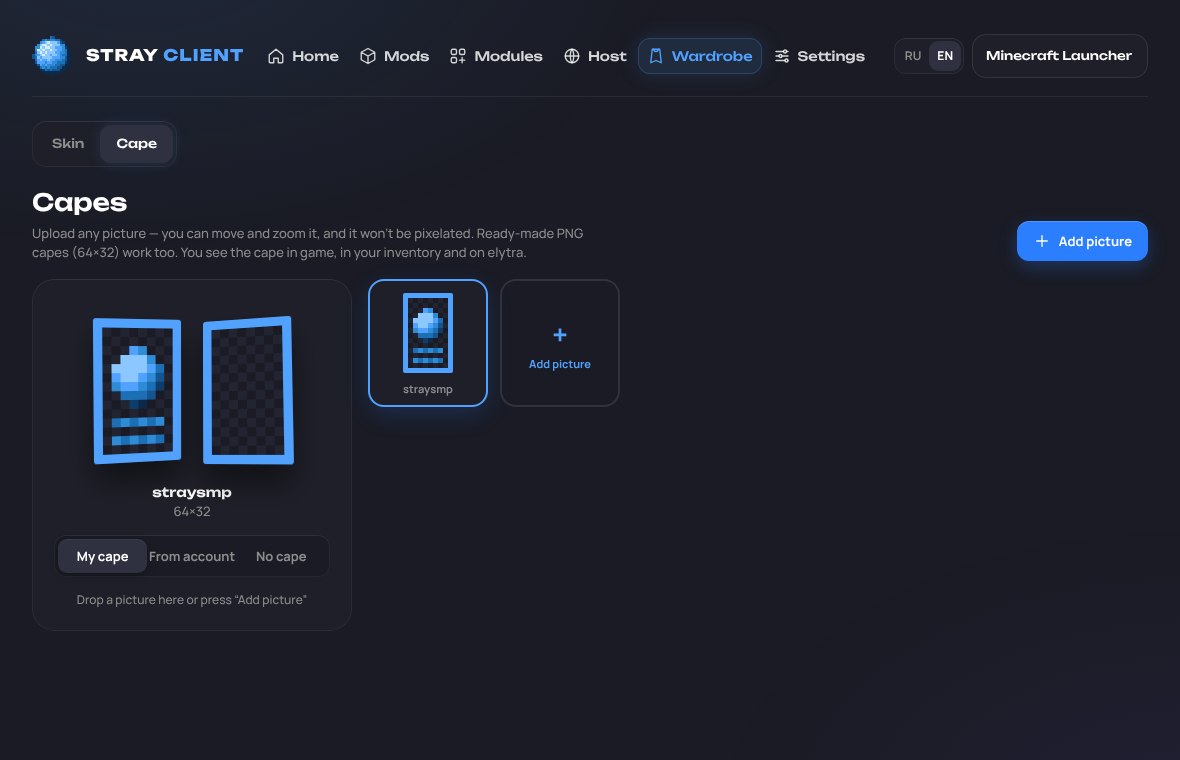
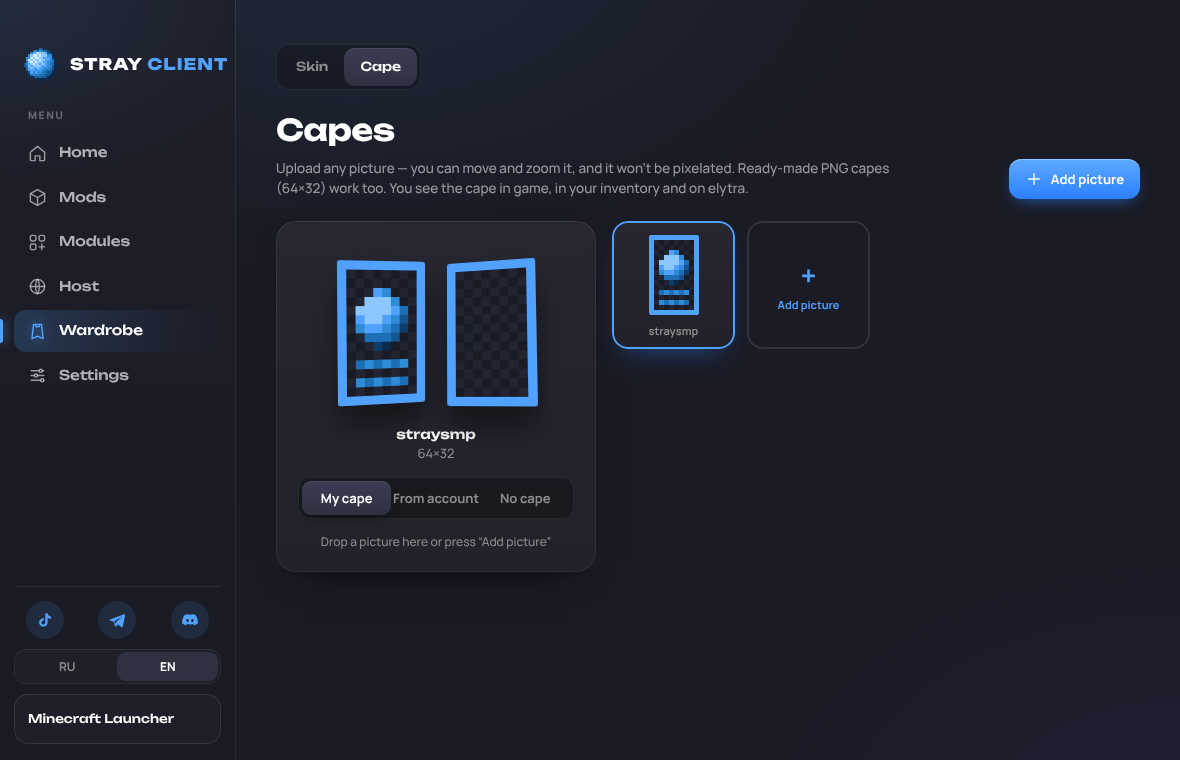
1.3.5: Design 2.0 — sidebar navigation and refined surfaces
- Navigation moves into a left sidebar (logo, labelled tabs with an
  accent bar on the active one, socials, language and account at the
  bottom); on narrow windows it becomes an icon rail.
- Larger, calmer page titles; layered card surfaces with soft edges and
  shadows; gradient primary buttons; refined tabs, segmented controls,
  inputs and notices; bigger Play button.
- Selected profiles, worlds and capes keep a clear accent ring.
- Website gallery re-shot.

Claude-Session: https://claude.ai/code/session_01EKR2RorTuDivRz6EMqGW66

diff --git a/ui/styles.css b/ui/styles.css
@@ -770,3 +770,132 @@ body.home-new .tiles { grid-template-columns: repeat(4, 1fr); }
 .ver-warn svg { width: 18px; height: 18px; flex: none; }
 .page > .ver-warn { margin: 0 0 14px; }
 .hero .ver-warn { background: rgba(40,30,10,.72); backdrop-filter: blur(10px); }
+
+/* ═════════════════════════════════════════════════════════════════════
+   Design 2.0 — sidebar navigation, larger type, layered surfaces
+   (a layer on top of the rules above; nothing below changes behaviour)
+   ═════════════════════════════════════════════════════════════════════ */
+:root {
+  --side: 236px;
+  --surface: linear-gradient(180deg, rgba(255,255,255,.035), rgba(255,255,255,.012));
+  --edge: rgba(255,255,255,.07);
+  --edge-hi: rgba(255,255,255,.12);
+  --glow: 0 0 0 1px rgba(81,162,255,.45), 0 10px 34px -10px rgba(43,127,255,.55);
+  --shadow: 0 1px 0 rgba(255,255,255,.04) inset, 0 18px 40px -24px rgba(0,0,0,.9);
+}
+
+/* ── sidebar ── */
+.top {
+  position: fixed; inset: 0 auto 0 0; width: var(--side); z-index: 30;
+  margin: 0; padding: 48px 14px 16px;
+  flex-direction: column; align-items: stretch; gap: 26px;
+  border-bottom: 0; border-right: 1px solid var(--edge);
+  background:
+    radial-gradient(420px 260px at 0% 0%, rgba(81,162,255,.10), transparent 70%),
+    linear-gradient(180deg, #1d1e28 0%, #191a23 100%);
+}
+.brand { padding: 0 10px; gap: 12px; }
+.brand img { width: 34px; height: 34px; }
+.brand span { font-size: 16px !important; }
+.nav { flex-direction: column; gap: 3px; }
+.nav-label { padding: 0 14px 6px; font-size: 10.5px; font-weight: 800; letter-spacing: .14em; text-transform: uppercase; color: rgba(255,255,255,.32); }
+.nav-btn, :is(html:lang(ru), html:lang(uk)) .nav-btn:not(.active) {
+  position: relative; padding: 11px 14px; gap: 12px; border-radius: 12px;
+  font-size: 13.5px; font-weight: 500; color: rgba(255,255,255,.66);
+}
+.nav-btn span, :is(html:lang(ru), html:lang(uk)) .nav-btn:not(.active) span { display: inline !important; }
+.nav-btn svg { width: 19px; height: 19px; opacity: .85; }
+.nav-btn:hover:not(.active) { background: rgba(255,255,255,.045); color: #fff; box-shadow: none; }
+.nav-btn.active {
+  color: #fff; box-shadow: none;
+  background: linear-gradient(90deg, rgba(81,162,255,.20), rgba(81,162,255,.05) 70%, transparent);
+}
+.nav-btn.active svg { color: var(--accent); opacity: 1; filter: drop-shadow(0 0 6px rgba(81,162,255,.6)); }
+.nav-btn.active::before {
+  content: ""; position: absolute; left: -14px; top: 9px; bottom: 9px; width: 3px; border-radius: 0 3px 3px 0;
+  background: var(--accent); box-shadow: 0 0 12px var(--accent);
+}
+.top-right {
+  margin: auto 0 0; display: grid; grid-template-columns: repeat(3, 1fr); gap: 10px; align-items: center;
+  padding-top: 14px; border-top: 1px solid var(--edge);
+}
+.top-right .social { display: grid !important; justify-self: center; width: 38px; height: 38px; }
+.lang { grid-column: 1 / -1; margin: 0; justify-content: stretch; }
+.lang button { flex: 1; }
+.account { grid-column: 1 / -1; width: 100%; height: 50px; padding: 6px 12px 6px 6px; border-radius: 14px; background: rgba(255,255,255,.04); box-shadow: inset 0 0 0 1px var(--edge); }
+.account img { width: 36px; height: 36px; border-radius: 10px; }
+.account span { flex: 1; min-width: 0; text-align: left; overflow: hidden; text-overflow: ellipsis; white-space: nowrap; }
+.account.guest { justify-content: center; }
+.acc-menu { top: auto; bottom: 62px; left: 0; right: auto; width: 290px; }
+
+/* ── content area ── */
+main { margin-left: var(--side); height: 100%; padding: 44px 40px 40px; }
+body::before { left: var(--side); }
+
+/* page heads: bigger, calmer */
+.page-head { margin-bottom: 22px; align-items: flex-end; }
+.page-head h2 { font-size: 30px; font-weight: 700; letter-spacing: -.02em; margin-bottom: 6px; }
+.page-head p { font-size: 13.5px; line-height: 1.55; max-width: 620px; color: rgba(255,255,255,.55); }
+
+/* layered surfaces */
+.card, .mod, .tile, .prof-cardx:not(.add), .world, .cape-card:not(.add), .online-card, .module-card, .set-card {
+  background: var(--surface), var(--panel);
+  box-shadow: inset 0 0 0 1px var(--edge), var(--shadow);
+}
+.card { border-radius: 20px; }
+.tile, .prof-cardx, .world, .mod { border-radius: 18px; }
+.set-card h3, .module-text h3, .card-head h3 { font-size: 17px; letter-spacing: -.005em; }
+
+/* inputs & segmented controls */
+.field input[type=text], .field input[type=password], .field input[type=number], .field select, .search, .skin-import input {
+  background: rgba(0,0,0,.22); box-shadow: inset 0 0 0 1px var(--edge);
+}
+.seg { background: rgba(0,0,0,.25); box-shadow: inset 0 0 0 1px var(--edge); }
+.seg button.on { background: linear-gradient(180deg, #3a3c52, #2f3142); box-shadow: 0 1px 0 rgba(255,255,255,.08) inset, 0 4px 12px -6px rgba(0,0,0,.8); }
+.tabs { background: rgba(0,0,0,.22); box-shadow: inset 0 0 0 1px var(--edge); }
+.tab.active { background: linear-gradient(180deg, #3a3c52, #2f3142); box-shadow: 0 1px 0 rgba(255,255,255,.08) inset; }
+
+/* primary buttons: gradient + inner light */
+.btn-primary { background: linear-gradient(180deg, #5eaaff, #2b7fff); box-shadow: 0 1px 0 rgba(255,255,255,.3) inset, 0 6px 18px -8px rgba(43,127,255,.9); }
+.btn-primary:hover:not(:disabled) { background: linear-gradient(180deg, #74b6ff, #3a88ff); }
+.btn { border-radius: 12px; }
+
+/* notices */
+.notice { border-radius: 14px; padding: 12px 16px; background: linear-gradient(90deg, rgba(81,162,255,.14), rgba(81,162,255,.05)); }
+
+/* ── home ── */
+.hero { border-radius: 26px; }
+.hero h1 { font-size: 40px !important; letter-spacing: -.025em; }
+body.home-new .hero p { font-size: 14.5px; color: rgba(255,255,255,.75); }
+.play { height: 60px; padding: 0 34px; border-radius: 18px; font-size: 17px; letter-spacing: .06em; }
+.home-bar h3 { font-size: 18px; letter-spacing: -.01em; }
+.tile-ico { width: 38px; height: 38px; border-radius: 12px; background: linear-gradient(180deg, rgba(81,162,255,.22), rgba(81,162,255,.08)); box-shadow: inset 0 0 0 1px rgba(81,162,255,.25); }
+.tile b { font-size: 15px; }
+.prof-cardx.on { background: linear-gradient(160deg, rgba(81,162,255,.20), rgba(81,162,255,.04) 55%), var(--panel); }
+
+/* ── responsive: icon rail on narrow windows ── */
+@media (max-width: 1080px) {
+  :root { --side: 78px; }
+  .top { padding: 46px 12px 14px; align-items: center; }
+  .brand { padding: 0; }
+  .brand span, .nav-btn span, .nav-label { display: none !important; }
+  .nav-btn, :is(html:lang(ru), html:lang(uk)) .nav-btn:not(.active) { justify-content: center; padding: 12px; width: 52px; }
+  .nav-btn.active::before { left: -12px; }
+  .top-right { grid-template-columns: 1fr; width: 100%; }
+  .top-right .social, .lang { display: none !important; }
+  .account { width: 52px; height: 52px; padding: 7px; justify-self: center; }
+  .account span, .account .acc-caret { display: none; }
+  .account.guest { padding: 0; }
+  .acc-menu { left: 0; bottom: 64px; }
+  main { padding: 40px 28px 28px; }
+}
+/* selected items keep their accent ring on the new surfaces */
+.prof-cardx.on, .world.on, .cape-card.on { box-shadow: inset 0 0 0 2px var(--accent), 0 12px 30px -14px rgba(43,127,255,.55) !important; }
+.prof-cardx.add { box-shadow: inset 0 0 0 1px rgba(81,162,255,.35); background: rgba(81,162,255,.04); }
+.prof-cardx.add:hover { background: rgba(81,162,255,.09); }
+.wr-tabs { margin-bottom: 18px; }
+@media (max-width: 1080px) {
+  /* no avatar (official-launcher mode): nothing useful to show in the rail */
+  .account:not(:has(img[src^="http"], img[src^="data"])) { display: none; }
+}
+.prof-tags span { white-space: nowrap; }

diff --git a/ui/i18n.js b/ui/i18n.js
@@ -21,6 +21,7 @@ window.I18N = {
     "host.starting": "Запускаю хост мира «{0}»…",
     "err.host_no_world": "Этот мир не найден. Обнови список.",
     "nav.modules": "Модули",
+    "nav.menu": "Меню",
     "nav.capes": "Плащи",
     "nav.wardrobe": "Гардероб",
     "pvp.desc": "Мод для PvP от команды Stray Client — без читов, всё только для удобства и информации",
@@ -297,6 +298,7 @@ window.I18N = {
     "host.starting": "Starting to host “{0}”…",
     "err.host_no_world": "This world wasn't found. Refresh the list.",
     "nav.modules": "Modules",
+    "nav.menu": "Menu",
     "nav.capes": "Capes",
     "nav.wardrobe": "Wardrobe",
     "pvp.desc": "PvP mod by the Stray Client team — no cheats, only comfort and information",

diff --git a/ui/index.html b/ui/index.html
@@ -29,6 +29,7 @@
       <span>STRAY <b>CLIENT</b></span>
     </a>
     <nav class="nav">
+      <div class="nav-label" data-i18n="nav.menu"></div>
       <button class="nav-btn active" data-page="home">
         <svg viewBox="0 0 24 24"><path d="M3 10.5 12 3l9 7.5V20a1 1 0 0 1-1 1h-5v-6H9v6H4a1 1 0 0 1-1-1z"/></svg>
         <span data-i18n="nav.home"></span>
